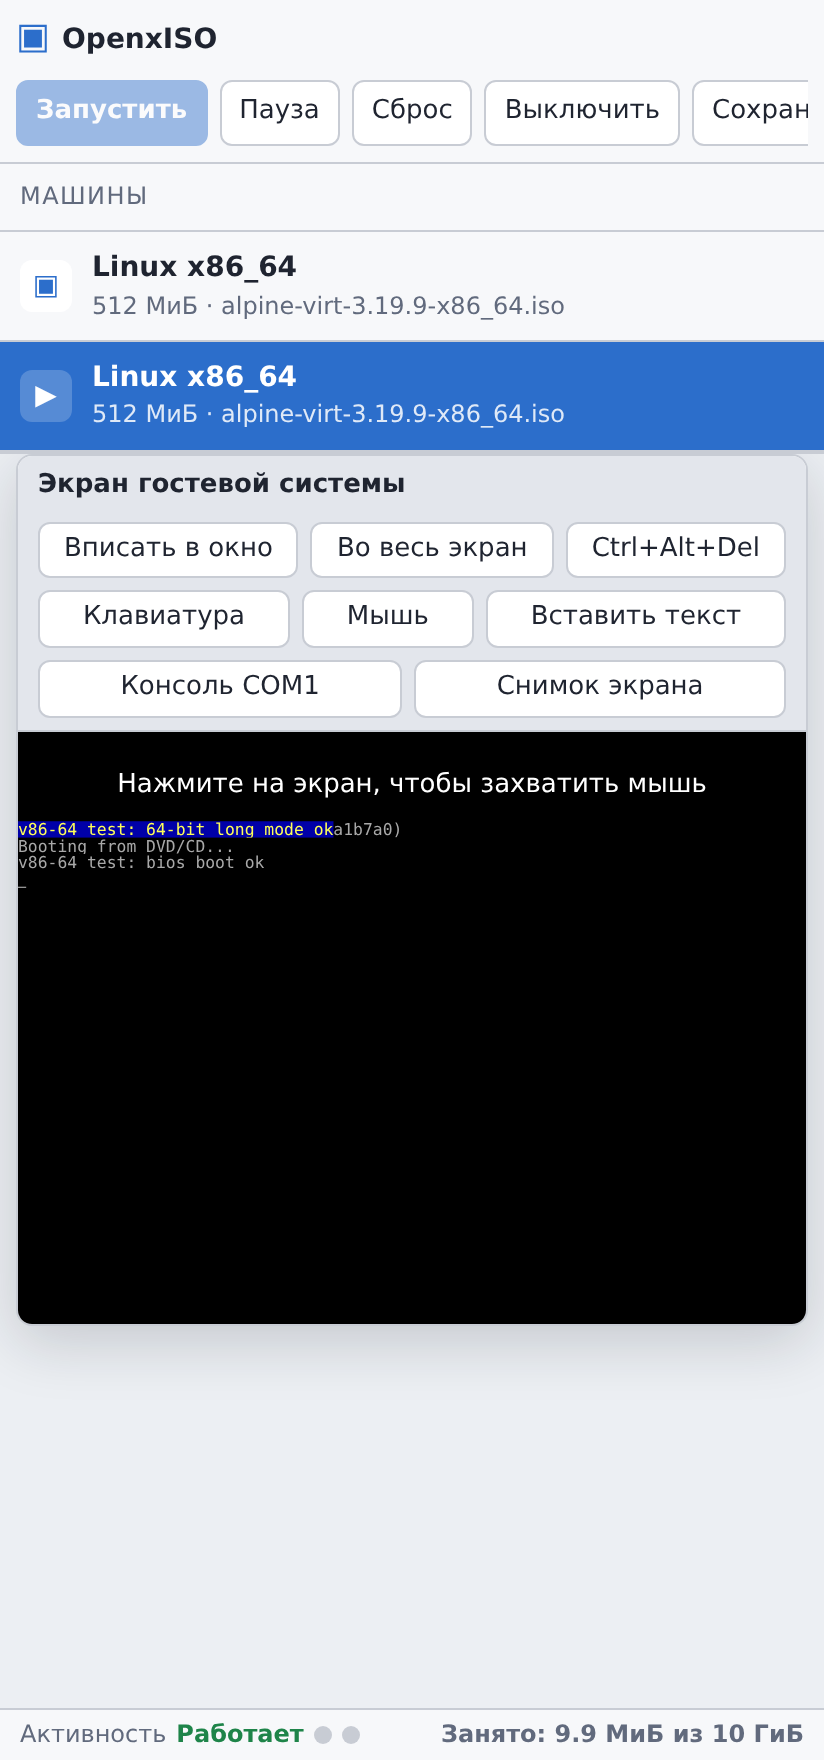
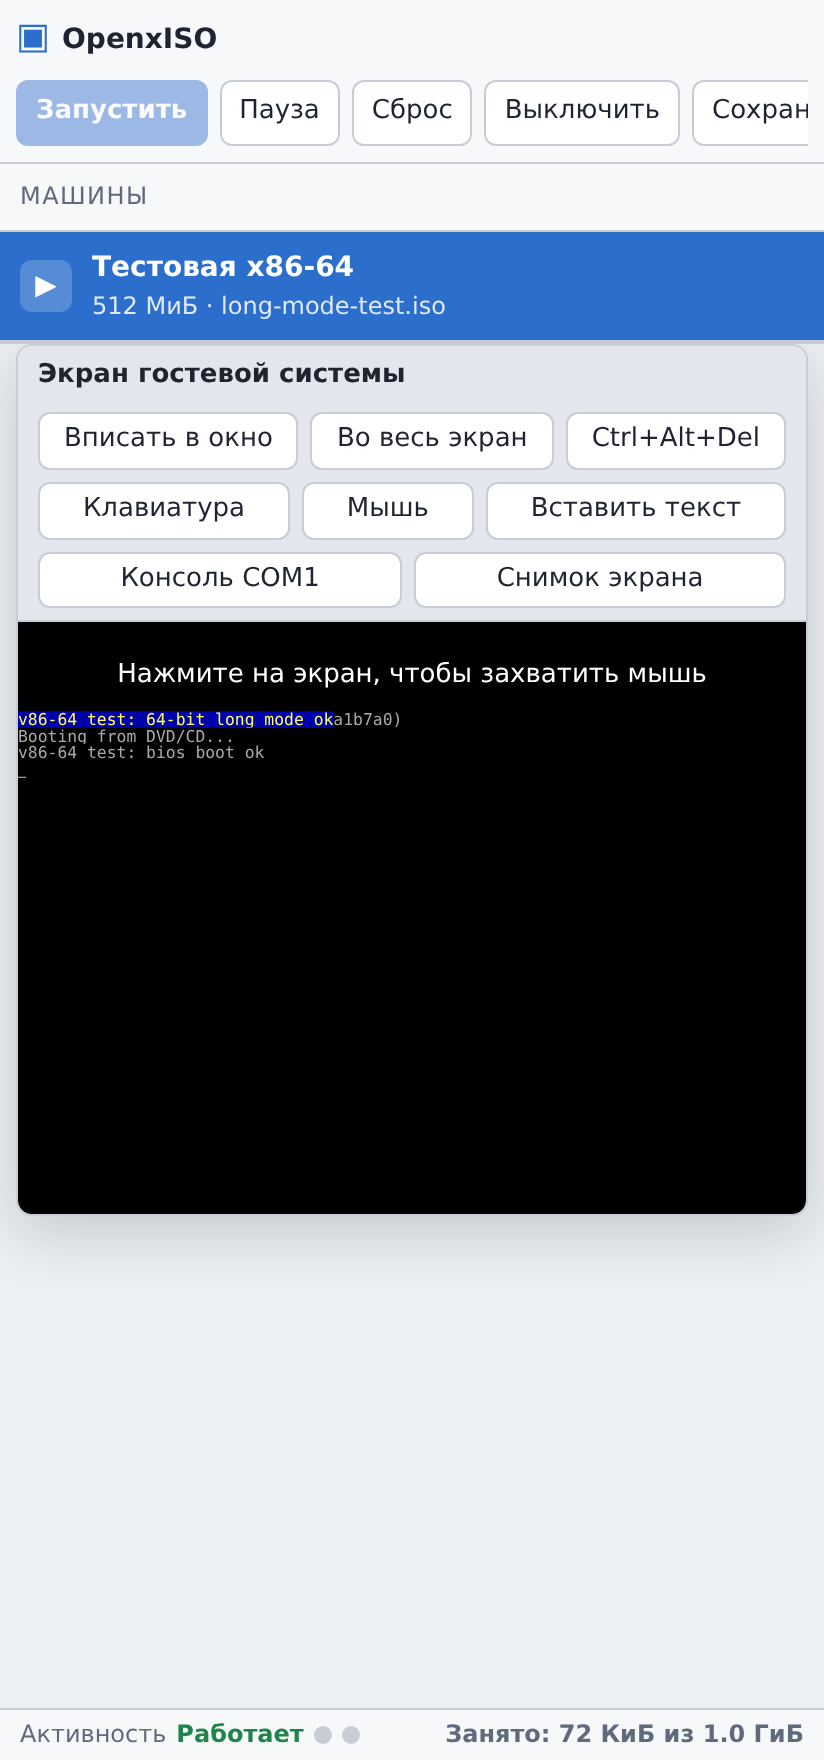
emulator: show the graphical guest, document ?demo, make screenshots reproduce
- make_screenshots.mjs moves into the repository (it lived in a scratch
    directory): it boots the test guests in a headless Chrome and writes the
    four images emulator/docs uses, each page in its own browser context so
    every screenshot shows the machine it created itself,
  - emulator/docs/screenshot.png now shows the whole COM1 transcript (timer
    ticks, PS/2 counters, "done") instead of only the first lines, and there is
    a new screenshot-graphics.png with the 640x480x32 VBE framebuffer,
  - the README shows the screenshots (it never referenced them before), points
    at ?demo=1 and ?demo=gfx, and documents the new tests,
  - ?demo accepts gfx (and 2) for the graphics image, and asks the server for
    the image size before creating the machine - an unknown size is shown as
    "по ссылке" instead of "0 Б",
  - check_emulator.py requires the new files, so CI catches them going missing.

Verified: check_emulator ok, unit_test 25/0, boot_test 3/3, ui_test 18/0,
phone layout and 4 GiB (memory64) runs clean.

diff --git a/emulator/js/app.js b/emulator/js/app.js
@@ -209,7 +209,9 @@ function render_details() {
 
     for (const entry of attached_media(machine)) {
         rows.push([t(settings.MEDIA_LABELS[entry.kind]),
-                   `${entry.media.name} (${format_bytes(entry.media.size)})`]);
+                   entry.media.size
+                       ? `${entry.media.name} (${format_bytes(entry.media.size)})`
+                       : `${entry.media.name} (${t("storage_url")})`]);
     }
 
     const buttons = el("div.details-buttons", {}, [
@@ -724,6 +726,22 @@ async function attach_media(machine, kind, refresh) {
  * requests, so a large ISO does not have to be downloaded or copied into the
  * browser storage first.
  */
+/**
+ * Ask a server how big the image behind a URL is. A missing Content-Length
+ * (chunked responses, some CDNs) simply leaves the size unknown.
+ *
+ * @param {string} url
+ * @return {Promise<number>}
+ */
+async function probe_size(url) {
+    try {
+        const response = await fetch(url, { method: "HEAD" });
+        return parseInt(response.headers.get("content-length") || "0", 10) || 0;
+    } catch (error) {
+        return 0;
+    }
+}
+
 async function attach_media_url(machine, kind, refresh, preset_url) {
     let url = preset_url;
     let size = 0;
@@ -1221,16 +1239,26 @@ async function main() {
         }
     }
 
-    // ?demo=<url of an ISO> (or ?demo=1 for build/emulator-tests/long-mode-test.iso)
-    // creates a machine and boots it, which is handy for a quick look
+    // ?demo=<url of an ISO> (or ?demo=1 / ?demo=gfx for the test images in
+    // build/emulator-tests) creates a machine and boots it, which is handy for
+    // a quick look at the emulator without attaching anything by hand
     const demo = new URLSearchParams(location.search).get("demo");
     if (demo !== null) {
-        const url = demo === "" || demo === "1"
-            ? new URL("../build/emulator-tests/long-mode-test.iso", location.href).href
+        const images = {
+            "": "long-mode-test.iso",
+            "1": "long-mode-test.iso",
+            "iso": "long-mode-test.iso",
+            "2": "long-mode-gfx-test.iso",
+            "gfx": "long-mode-gfx-test.iso",
+        };
+        const url = demo in images
+            ? new URL("../build/emulator-tests/" + images[demo], location.href).href
             : demo;
         const machine = create_machine({ name: "Демонстрация x86-64" });
-        machine.media.cdrom = { id: new_id("url-"), name: url.split("/").pop(), size: 0,
-                                url: url, storage: "url", writable: false };
+        machine.media.cdrom = {
+            id: new_id("url-"), name: url.split("/").pop(), size: await probe_size(url),
+            url: url, storage: "url", writable: false,
+        };
         finalize_machine(machine, "Демонстрация");
         await save_machine(machine);
         select_machine(machine.id);

diff --git a/emulator/js/i18n.js b/emulator/js/i18n.js
@@ -86,6 +86,7 @@ const strings = {
         eject: "Отключить",
         create_blank: "Создать пустой…",
         no_media: "не подключён",
+        storage_url: "по ссылке",
         media_storage: "Хранить образ в браузере",
         media_storage_help:
             "Если включено, образ копируется в хранилище браузера и машина сможет " +

diff --git a/tools/check_emulator.py b/tools/check_emulator.py
@@ -51,9 +51,15 @@ APPLICATION_FILES = (
     "serve.mjs",
     "tests/unit_test.mjs",
     "tests/boot_test.mjs",
+    "tests/ui_test.mjs",
+    "tests/make_screenshots.mjs",
     "tests/boot64.S",
     "tests/make_test_images.py",
     "README.md",
+    "docs/screenshot.png",
+    "docs/screenshot-graphics.png",
+    "docs/screenshot-phone.png",
+    "docs/screenshot-wizard.png",
 )
 
 ENGINE_FILES = (
